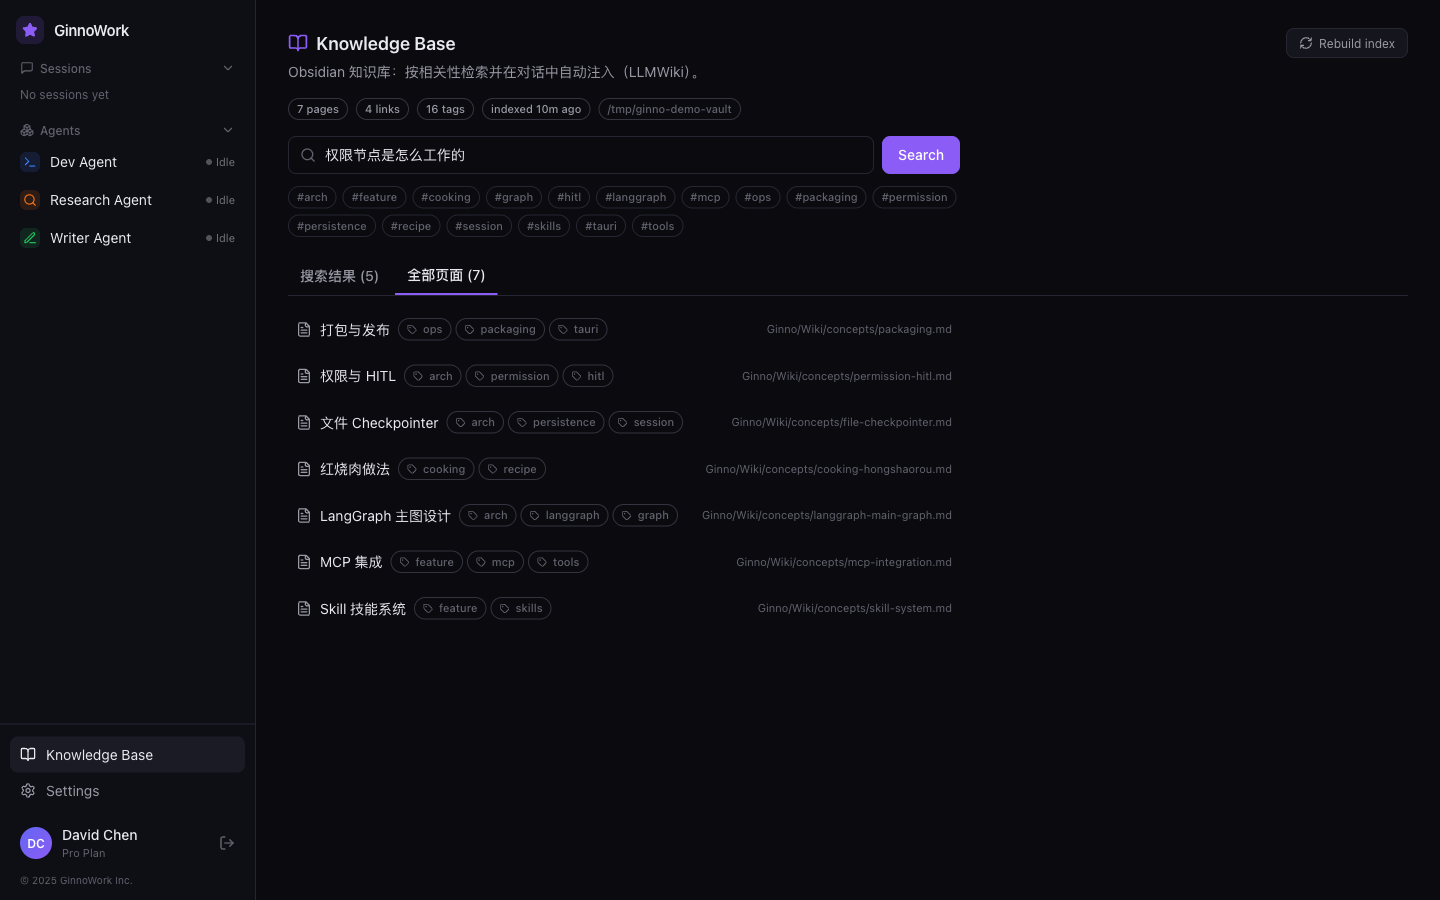
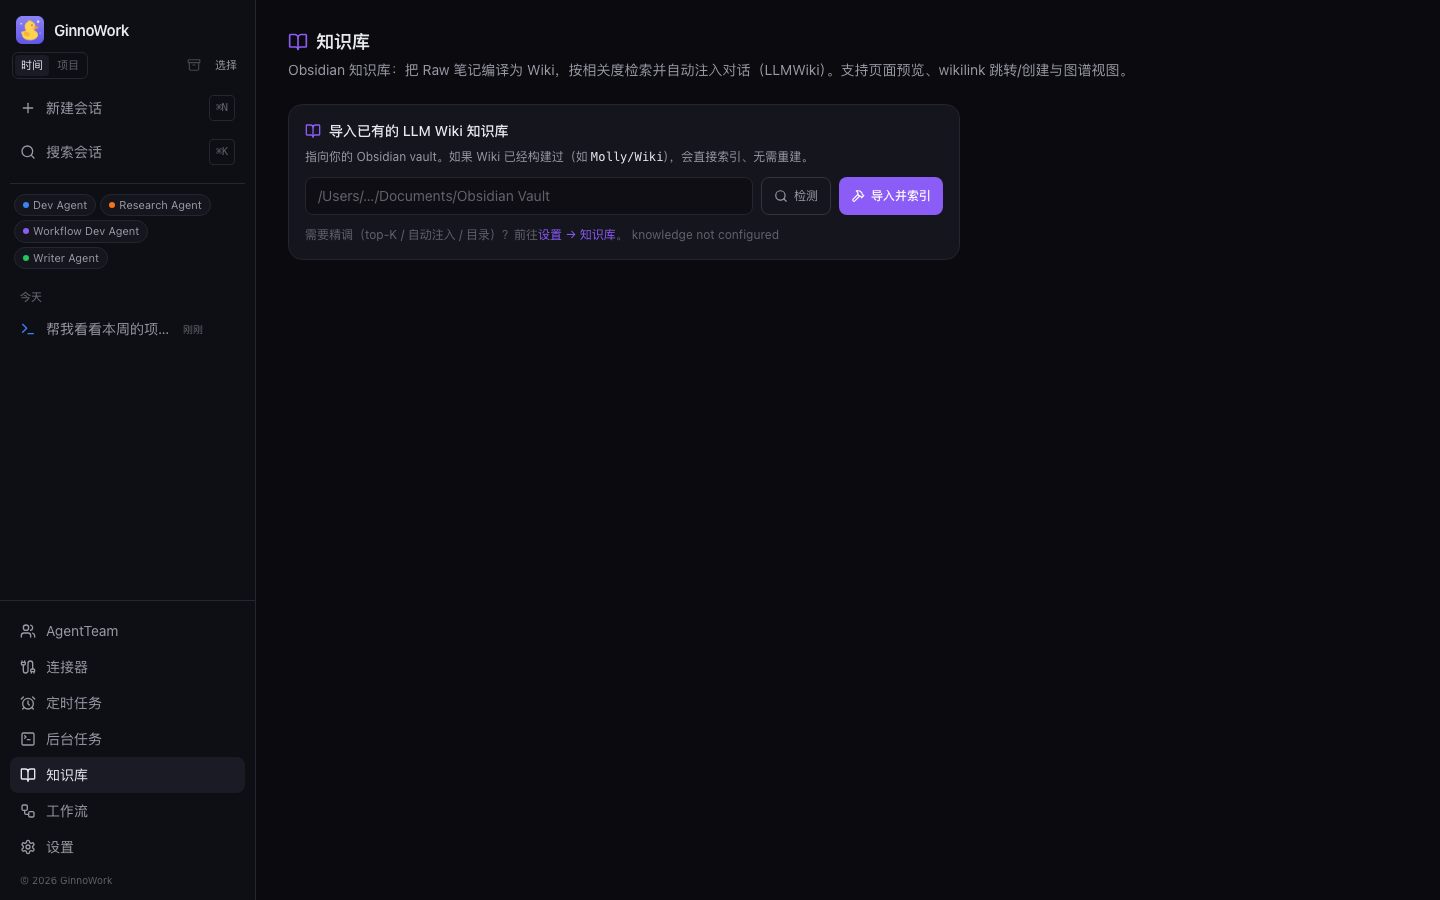
docs: 重截 README 三张 UI 图 + 沉淀可复用截图脚本
旧图是 2026-07 手截的，UI 已多轮改版。新增 scripts/screenshot_ui.py：
temp GINNO_HOME + 独立端口起打包版 sidecar，GINNO_FAKE_LLM 脚本化两轮
演示对话（含 render_widget stat_list 卡 + 富 markdown），Playwright 驱动
真实 Chromium 逐页截图——图里的对话、widget 卡、用量 pill 全是真实
数据流，不碰用户真实数据目录与 8787 端口。

坑位记录：page.evaluate 里 URL 必须用 Python f-string 预拼——JS 模板
字符串的 sid 插值在 evaluate 字符串表达式里不生效（恒空，轮询永不满足）。

diff --git a/scripts/screenshot_ui.py b/scripts/screenshot_ui.py
@@ -1,0 +1,298 @@
+#!/usr/bin/env python3
+"""一键重截 README 用 UI 截图（docs/smoke/*.png）。
+
+流程：temp GINNO_HOME + 独立端口起 **打包版** dist sidecar（GINNO_FAKE_LLM
+脚本化回复，含 render_widget 演示），Playwright 驱动真实 Chromium 完成两轮
+对话后逐页截图。不碰用户的 ~/.ginno 与 8787 端口。
+
+用法：
+    cd packages/runtime && uv run --group test python ../../scripts/screenshot_ui.py
+    # 可选: --port 8791 --lang zh-CN --out ../docs/smoke --keep(保留临时home调试)
+
+前置：dist sidecar 已构建（make runtime）、playwright + chromium 已安装。
+"""
+from __future__ import annotations
+
+import argparse
+import json
+import os
+import shutil
+import signal
+import socket
+import subprocess
+import sys
+import tempfile
+import time
+import urllib.request
+from pathlib import Path
+
+ROOT = Path(__file__).resolve().parents[1]
+RUNTIME = ROOT / "packages" / "runtime"
+RUNTIME_BIN = RUNTIME / "dist" / "ginno-runtime" / "ginno-runtime"
+OUT_DIR_DEFAULT = ROOT / "docs" / "smoke"
+
+# ---------------------------------------------------------------- fake scripts
+
+# 两轮「演示对话」：第一轮触发 render_widget 工具调用（no-op 工具，WS 层
+# 拦截发 widget.emit → 前端渲染真实卡片），随后给富 markdown 总结；第二轮
+# 纯文本短答。usage 让 TopBar 的用量 pill 有真实数据。
+SCRIPTS = [
+    {
+        "content": "我来看一下你最近的项目活动。",
+        "tool_calls": [
+            {
+                "name": "render_widget",
+                "args": {
+                    "kind": "stat_list",
+                    "data": {
+                        "title": "本周项目活动总览",
+                        "items": [
+                            {"label": "会话产出", "value": "12 份报告", "status": "done"},
+                            {"label": "代码提交", "value": "23 commits", "status": "ok"},
+                            {"label": "CI 状态", "value": "三栈全绿", "status": "done"},
+                            {"label": "知识库沉淀", "value": "5 篇 Wiki", "status": "ok"},
+                        ],
+                    },
+                },
+            }
+        ],
+        "usage": {
+            "input_tokens": 1580,
+            "output_tokens": 96,
+            "total_tokens": 1676,
+            "input_token_details": {"cache_read": 1200, "cache_creation": 180},
+        },
+    },
+    {
+        "content": (
+            "整体节奏很健康，几个亮点：\n\n"
+            "1. **产出密度高** —— 本周 12 份报告覆盖三个方向；\n"
+            "2. **工程线收口** —— 三栈 CI 全绿，发布流水线打通；\n"
+            "3. **知识沉淀** —— 5 篇 Wiki 进库，下次可直接引用。\n\n"
+            "| 维度 | 本周 | 上周 |\n|---|---|---|\n"
+            "| 报告 | 12 | 8 |\n| commits | 23 | 17 |\n"
+            "\n建议：把「知识沉淀」环节固定成周五的收尾动作。"
+        ),
+        "usage": {
+            "input_tokens": 2100,
+            "output_tokens": 210,
+            "total_tokens": 2310,
+            "input_token_details": {"cache_read": 1800, "cache_creation": 120},
+        },
+    },
+    {
+        "content": "已把这条建议加进本周 TODO（关联产物已挂）。要我现在起草周五收尾 checklist 吗？",
+        "usage": {
+            "input_tokens": 2450,
+            "output_tokens": 48,
+            "total_tokens": 2498,
+            "input_token_details": {"cache_read": 2200, "cache_creation": 60},
+        },
+    },
+]
+
+
+def _settings(lang: str) -> dict:
+    return {
+        "default_provider": "custom",
+        "bypass_permissions": True,
+        "language": lang,
+        "providers": {
+            "custom": {
+                "enabled": True,
+                "protocol": "openai-compatible",
+                "name": "demo",
+                "api_key": "k",
+                "base_url": "http://127.0.0.1:1",
+                "model": "m",
+                "max_tokens": 100,
+                "temperature": 0.7,
+                "timeout_s": 5,
+            }
+        },
+        "permissions": {"allow": [], "deny": [], "ask": []},
+        "hooks": {},
+        "knowledge": {"enabled": False},
+    }
+
+
+def _port_open(port: int) -> bool:
+    s = socket.socket()
+    s.settimeout(0.3)
+    try:
+        s.connect(("127.0.0.1", port))
+        return True
+    except OSError:
+        return False
+    finally:
+        s.close()
+
+
+def _wait_health(port: int, timeout: float = 60) -> None:
+    deadline = time.time() + timeout
+    while time.time() < deadline:
+        try:
+            with urllib.request.urlopen(f"http://127.0.0.1:{port}/api/health", timeout=2) as r:
+                if r.status == 200:
+                    return
+        except Exception:
+            time.sleep(0.5)
+    raise RuntimeError(f"sidecar on :{port} did not become healthy in {timeout}s")
+
+
+def _launch_chromium(pw):
+    try:
+        return pw.chromium.launch()
+    except Exception:
+        subprocess.run(
+            [sys.executable, "-m", "playwright", "install", "chromium"], check=False
+        )
+        return pw.chromium.launch()
+
+
+
+def _first_session_id(page) -> str | None:
+    return page.evaluate(
+        "fetch('/api/sessions?project_slug=default').then(r=>r.json()).then(j=>j.length?j[0].id:null)"
+    )
+
+
+def _send_and_wait(page, text: str, expect_messages: int, timeout: float = 90):
+    ta = page.locator("textarea").first
+    ta.click()
+    ta.fill(text)
+    ta.press("Enter")
+    # 注意：URL 必须用 Python f-string 拼好再进 evaluate——JS 模板字符串的
+    # `${sid}` 在 page.evaluate 的字符串表达式里不会按预期插值（实测恒取
+    # 空，轮询永不满足）。
+    deadline = time.time() + timeout
+    sid = None
+    while time.time() < deadline:
+        sid = _first_session_id(page)
+        n = (
+            page.evaluate(
+                f"fetch('/api/sessions/{sid}/history').then(r=>r.json()).then(j=>(j.messages||[]).length)"
+            )
+            if sid
+            else -1
+        )
+        if sid and n >= expect_messages:
+            return sid
+        page.wait_for_timeout(400)
+    # 失败现场：截图 + API 状态 dump，便于诊断
+    import pathlib
+
+    dbg = pathlib.Path("/tmp/ginno-shot-debug")
+    dbg.mkdir(exist_ok=True)
+    try:
+        page.screenshot(path=str(dbg / "fail.png"))
+        sessions = page.evaluate("fetch('/api/sessions?project_slug=default').then(r=>r.json())")
+        print(f"[diag] sessions={json.dumps(sessions, ensure_ascii=False)[:500]}", file=sys.stderr)
+        if sid:
+            hist = page.evaluate(
+                f"fetch('/api/sessions/{sid}/history').then(r=>r.json())"
+            )
+            print(
+                f"[diag] history({sid})={json.dumps(hist, ensure_ascii=False)[:1200]}",
+                file=sys.stderr,
+            )
+    except Exception as e:  # noqa: BLE001
+        print(f"[diag] dump failed: {e}", file=sys.stderr)
+    raise RuntimeError(f"turn did not complete in {timeout}s (text={text!r})")
+
+
+def main() -> int:
+    ap = argparse.ArgumentParser()
+    ap.add_argument("--port", type=int, default=8791)
+    ap.add_argument("--lang", default="zh-CN")
+    ap.add_argument("--out", default=str(OUT_DIR_DEFAULT))
+    ap.add_argument("--keep", action="store_true", help="保留临时 GINNO_HOME 便于调试")
+    args = ap.parse_args()
+
+    if not RUNTIME_BIN.exists():
+        print("❌ dist sidecar 不存在，先跑 make runtime", file=sys.stderr)
+        return 2
+    if _port_open(args.port):
+        print(f"❌ 端口 {args.port} 被占用", file=sys.stderr)
+        return 2
+
+    out = Path(args.out)
+    out.mkdir(parents=True, exist_ok=True)
+    home = Path(tempfile.mkdtemp(prefix="ginno-shots-"))
+
+    (home / "settings.json").write_text(json.dumps(_settings(args.lang)), encoding="utf-8")
+    scripts_file = home / "scripts.json"
+    scripts_file.write_text(json.dumps(SCRIPTS), encoding="utf-8")
+
+    env = dict(
+        os.environ,
+        GINNO_HOME=str(home),
+        GINNO_FAKE_LLM="1",
+        GINNO_FAKE_LLM_SCRIPTS=str(scripts_file),
+        GINNO_RUNTIME_PORT=str(args.port),
+    )
+    proc = subprocess.Popen(
+        [str(RUNTIME_BIN)],
+        env=env,
+        stdout=subprocess.DEVNULL,
+        stderr=subprocess.DEVNULL,
+        start_new_session=True,
+    )
+
+    from playwright.sync_api import sync_playwright
+
+    taken: list[Path] = []
+    try:
+        _wait_health(args.port)
+        with sync_playwright() as pw:
+            browser = _launch_chromium(pw)
+            page = browser.new_page(viewport={"width": 1440, "height": 900})
+            page.goto(f"http://127.0.0.1:{args.port}/", wait_until="load")
+            page.wait_for_timeout(2500)
+
+            # ---- 1. 聊天工作台：两轮对话 → widget 卡 + markdown 渲染 ----
+            # 第一轮折叠为 2 条（user + assistant[widget+text]：no-op 工具
+            # 不落 ToolMessage，widget 卡与文本并入同一条 assistant blocks）
+            _send_and_wait(page, "帮我看看本周的项目活动，先给个总览", 2, timeout=90)
+            page.wait_for_timeout(600)  # widget 卡片动画
+            _send_and_wait(page, "很好，总结一下并给我一条行动建议", 4)
+            page.wait_for_timeout(1200)  # markdown 表格/列表渲染
+            p = out / "ui-workspace.png"
+            page.screenshot(path=str(p))
+            taken.append(p)
+
+            # ---- 2. Workflow Studio（lifespan 自动种子配方）----
+            page.goto(f"http://127.0.0.1:{args.port}/workflows", wait_until="load")
+            page.wait_for_timeout(2500)
+            p = out / "ui-workflow-tab.png"
+            page.screenshot(path=str(p))
+            taken.append(p)
+
+            # ---- 3. 知识库（无数据时的引导态也如实呈现）----
+            page.goto(f"http://127.0.0.1:{args.port}/kb", wait_until="load")
+            page.wait_for_timeout(2500)
+            p = out / "kb-overview.png"
+            page.screenshot(path=str(p))
+            taken.append(p)
+
+            browser.close()
+    finally:
+        # PyInstaller bootloader 对 TERM 不可靠：TERM→宽限→KILL 整个进程组
+        try:
+            os.killpg(os.getpgid(proc.pid), signal.SIGTERM)
+            time.sleep(2)
+            if proc.poll() is None:
+                os.killpg(os.getpgid(proc.pid), signal.SIGKILL)
+        except (ProcessLookupError, PermissionError):
+            pass
+        proc.wait()
+        if not args.keep:
+            shutil.rmtree(home, ignore_errors=True)
+
+    for p in taken:
+        print(f"✅ {p}  ({p.stat().st_size // 1024} KB)")
+    return 0
+
+
+if __name__ == "__main__":
+    raise SystemExit(main())
